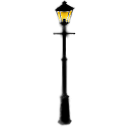
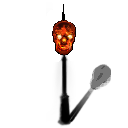
work in progress
Former-commit-id: cb643f83c1b67ba4d7f4428c3b997c6479682ec3
Former-commit-id: 64321f2de7b53d5f2659ec39496c783750763960

Changed region(s): [[0.4062, 0.0, 0.5938, 0.5], [0.5312, 0.5, 0.875, 0.9688]]

diff --git a/src/resource.c b/src/resource.c
@@ -107,8 +107,8 @@ static uint8_t resource_init_15 (void *context)
 
 static uint8_t resource_init_16 (void *context)
 {
-    return (tex_load("data/gfx/lantern.png",
-                     "lantern") != 0);
+    return (tex_load("data/gfx/brazier.png",
+                     "brazier") != 0);
 }
 
 static uint8_t resource_init_17 (void *context)
@@ -173,12 +173,12 @@ static uint8_t resource_init_23 (void *context)
         0,
         0,
         0,
-        0,
-        0,
-        0,
-        0,
-        0,
-        0,
+        "brazier1",
+        "brazier2",
+        "brazier3",
+        "brazier4",
+        "brazier5",
+        "brazier6",
         // --------------------------------------------------------------------
         "key",
         "keys2",
@@ -2317,12 +2317,12 @@ static uint8_t resource_init_23 (void *context)
     tile_load_arr("poison", 128, 128,
                   ARRAY_SIZE(poison_tiles), poison_tiles);
 
-    static const char *lantern_tiles[] = {
-        "lantern",
+    static const char *brazier_tiles[] = {
+        "brazierx",
     };
 
-    tile_load_arr("lantern", 128, 128,
-                  ARRAY_SIZE(lantern_tiles), lantern_tiles);
+    tile_load_arr("brazier", 128, 128,
+                  ARRAY_SIZE(brazier_tiles), brazier_tiles);
 
     /*
      * Walls
@@ -2344,7 +2344,7 @@ static uint8_t resource_init_23 (void *context)
     thing_template_load(&THING_DOOR2, "data/things/door2");
     thing_template_load(&THING_NOENTRY, "data/things/noentry");
     thing_template_load(&THING_PIPE, "data/things/pipe");
-    thing_template_load(&THING_LANTERN, "data/things/lantern");
+    thing_template_load(&THING_BRAZIER, "data/things/brazier");
     thing_template_load(&THING_EXIT1, "data/things/exit1");
     thing_template_load(&THING_EXIT2, "data/things/exit2");
     thing_template_load(&THING_EXIT3, "data/things/exit3");

diff --git a/src/thing.h b/src/thing.h
@@ -358,7 +358,7 @@ extern uint16_t THING_GEM4;
 extern uint16_t THING_GEM5;
 extern uint16_t THING_GEM6;
 extern uint16_t THING_GEM7;
-extern uint16_t THING_LANTERN;
+extern uint16_t THING_BRAZIER;
 extern uint16_t THING_EXIT1;
 extern uint16_t THING_EXIT2;
 extern uint16_t THING_EXIT3;
